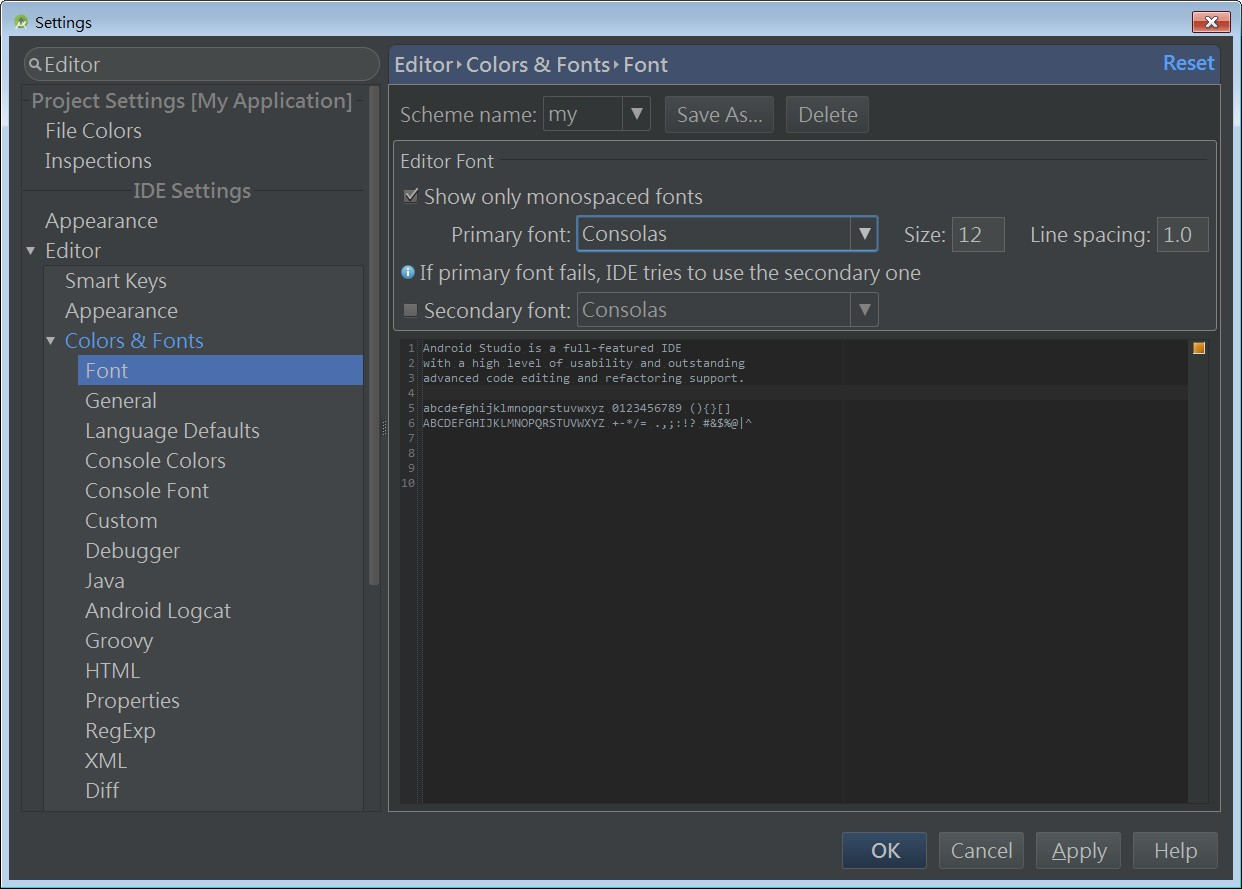
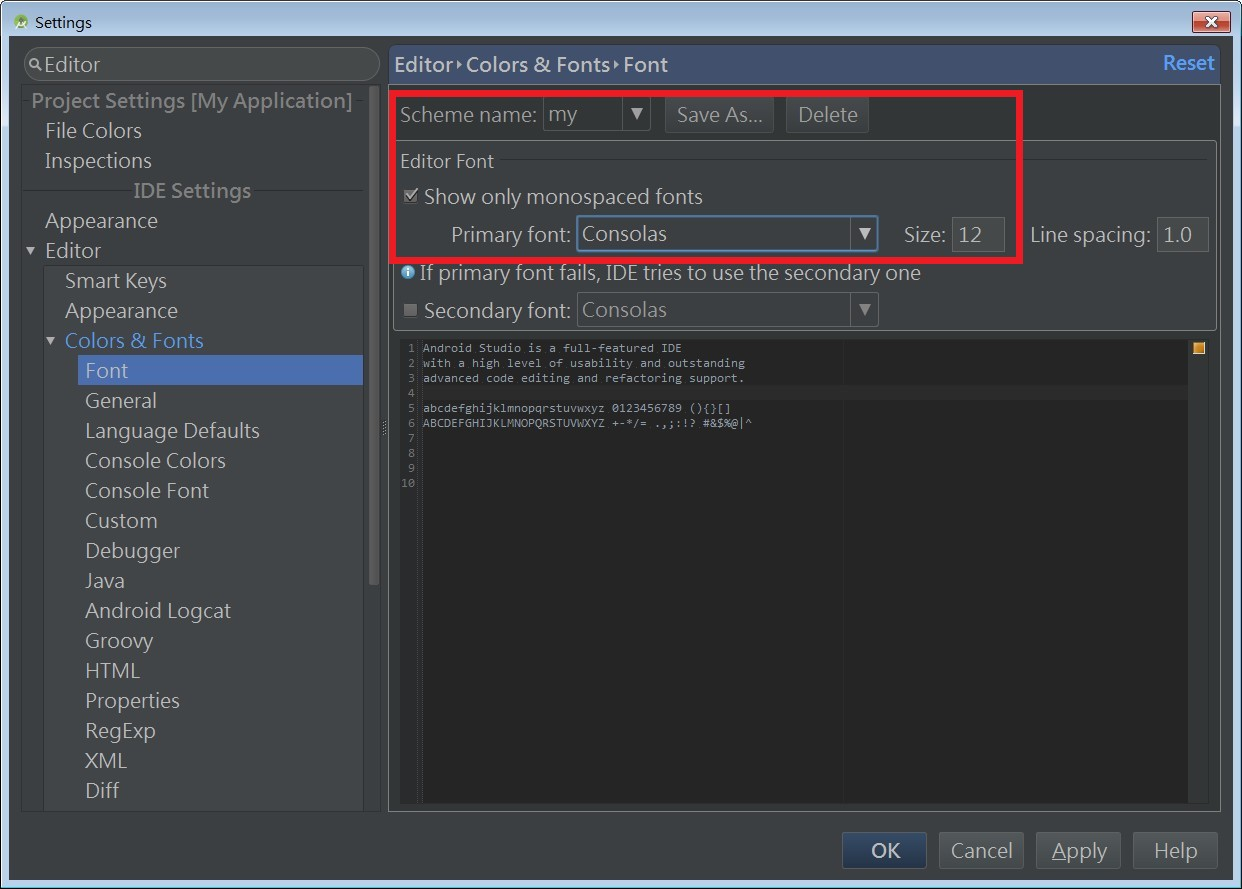
add

Changed region(s): [[0.306, 0.0911, 0.8261, 0.3037]]

diff --git a/doc/00003. Android Studio 開發環境簡介.md b/doc/00003. Android Studio 開發環境簡介.md
@@ -18,11 +18,9 @@ Android Studio 開發環境簡介
 <br/>
 
 ## *編輯器文字裡的字體大小調整
-###`File->Setting->Appearance `
-
-視個人螢幕解析度與需求調整，如果不習慣黑壓壓的Darcula風格，可以換成傳統windows藍白介面。<br/>
-這裡調整的字體是介面的字體，非編輯器文字裡的字體大小。
-![](https://raw.githubusercontent.com/tw-hkt/AndroidTutorial/master/img/img0024.jpg)
+###`File->Setting->Editor->Colors & Fonts->Font`
+視個人螢幕解析度與需求調整，預設是不能編輯更改的，需點擊Save As...，自訂一份個人的設定後即可以更改
+![](https://raw.githubusercontent.com/tw-hkt/AndroidTutorial/master/img/img0026.jpg)
 
 <br/>
 <br/>
